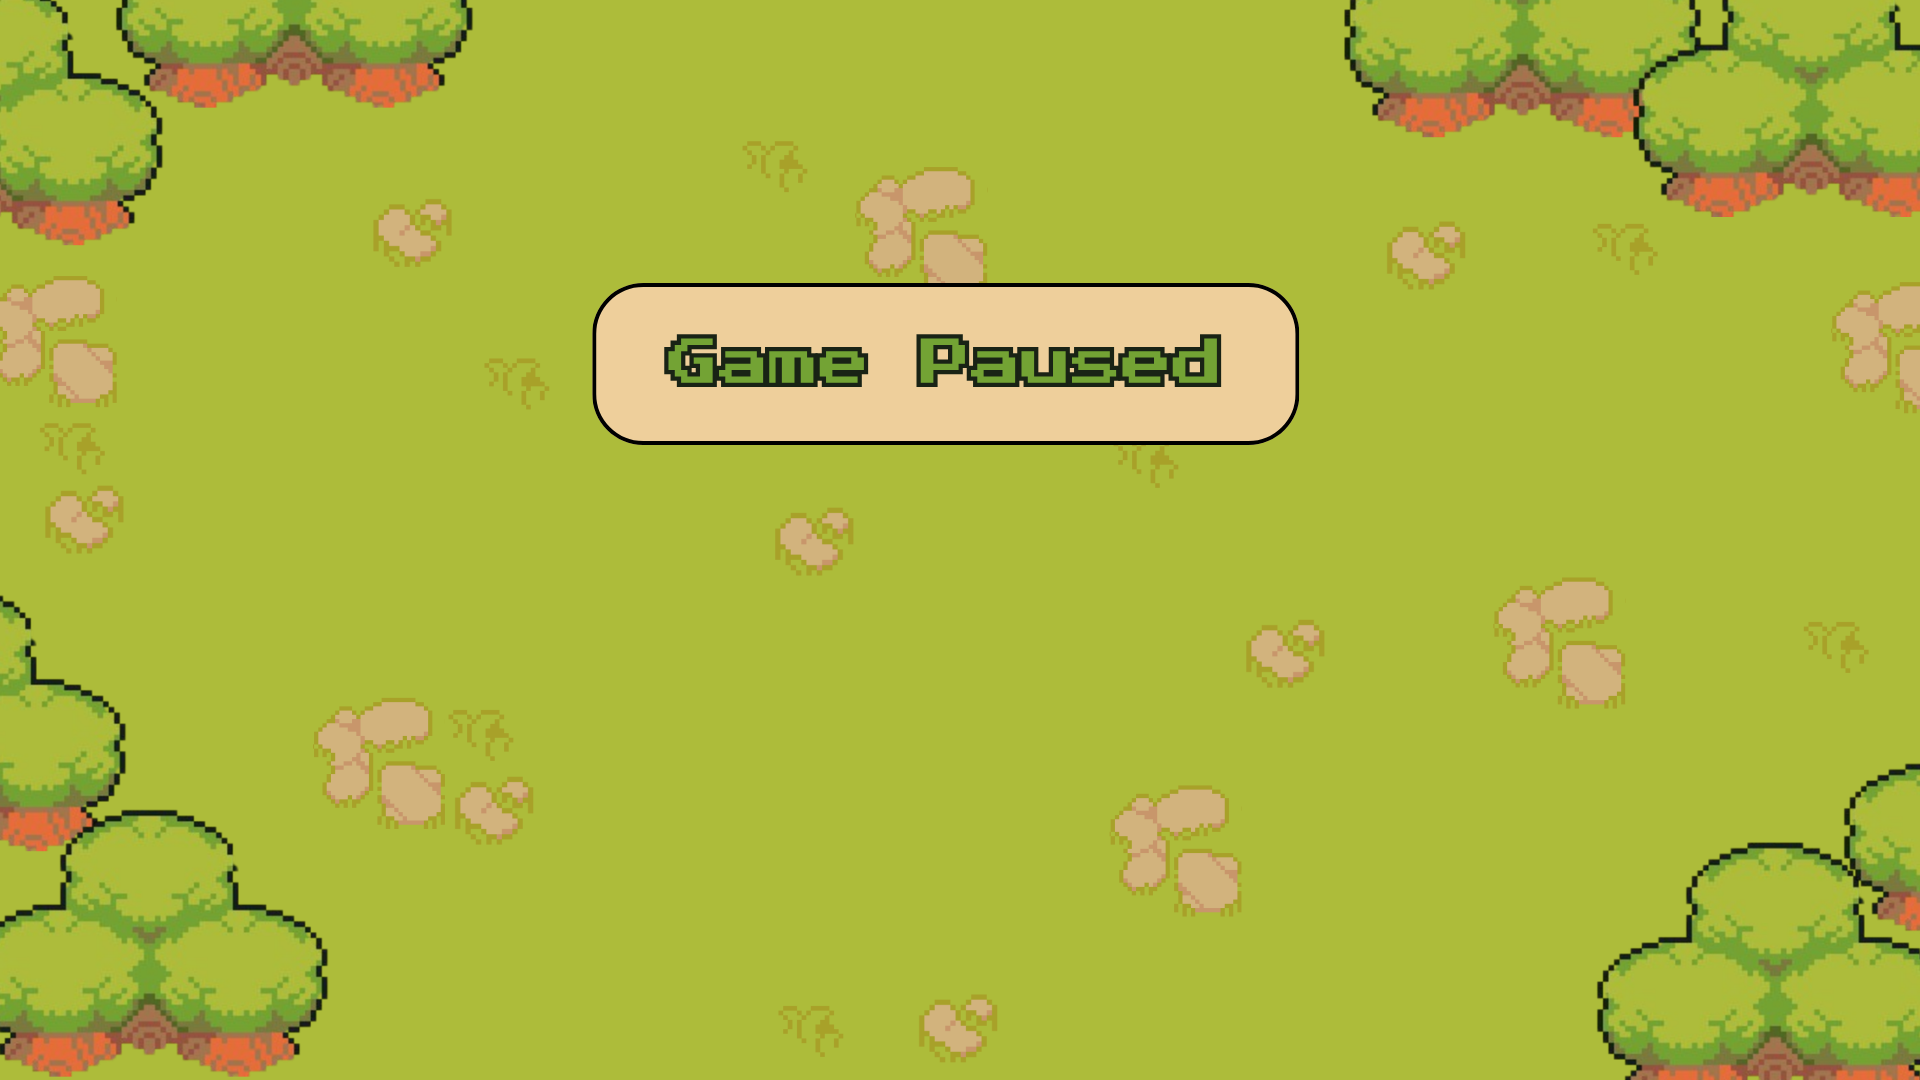
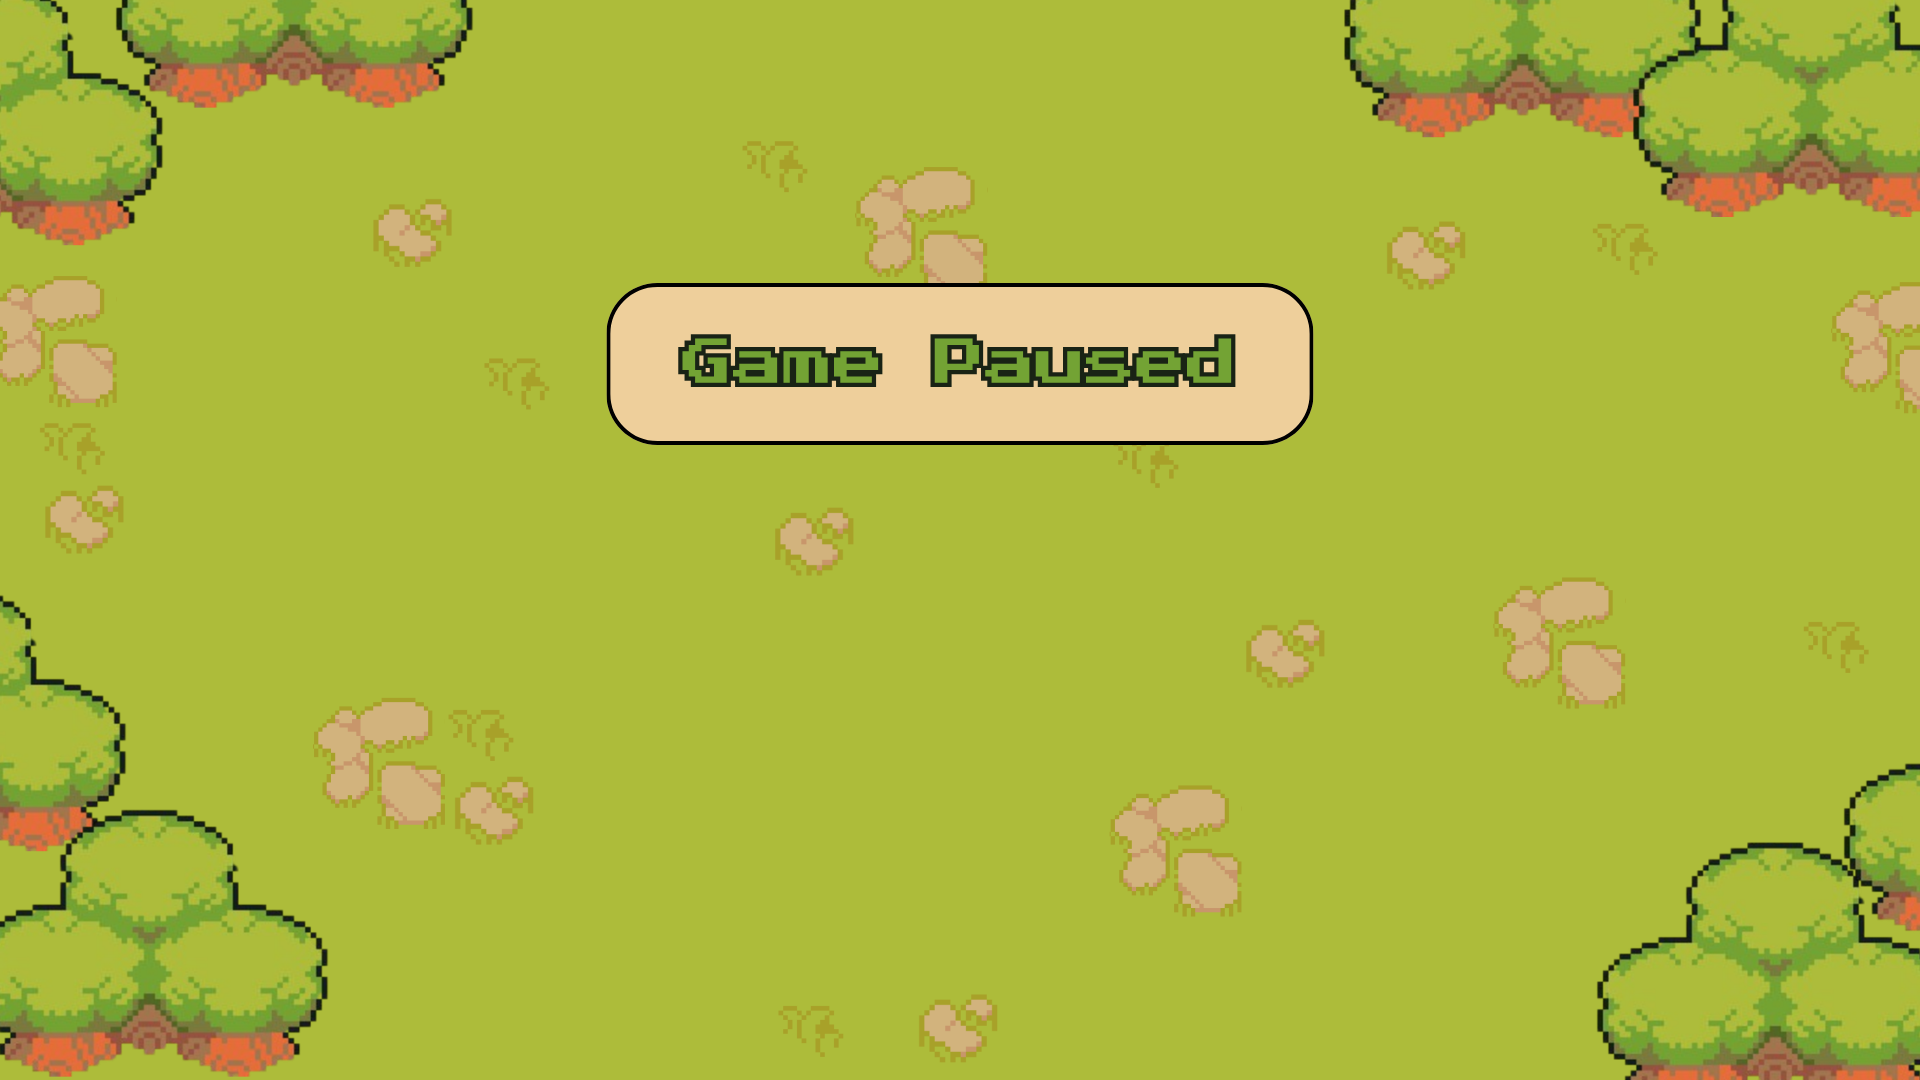
fixed centering and aesthetics of pause, game over, and main menu

Changed region(s): [[0.2812, 0.2444, 0.6875, 0.4278]]

diff --git a/Classes/GameScreen.js b/Classes/GameScreen.js
@@ -6,19 +6,19 @@ class GameScreen {
     this.buttonH = 70;
 
     this.startX = width / 2;
-    this.startY = height / 2 + 60;
-    this.playAgainX = width / 2;
-    this.playAgainY = height / 2 + 110;
-    this.mainMenuX = width / 2;
+    this.startY = height / 2 + 30;
+    this.playAgainX = width / 2 - 130;
+    this.playAgainY = height / 2 + 10;
+    this.mainMenuX = width / 2 + 130;
     this.mainMenuY = height / 2 + 10;
-    this.instrX = width / 2;
-    this.instrY = height / 2 + 210;
+    this.instrX = width / 2 + 130;
+    this.instrY = height / 2 + 110;
     this.backX = width / 2;
     this.backY = height - 100;
     this.howToX = width / 2;
-    this.howToY = height / 2 + 160;
-    this.shopX = width / 2;
-    this.shopY = height / 2 + 310;
+    this.howToY = height / 2 + 130;
+    this.shopX = width / 2 - 130;
+    this.shopY = height / 2 + 110;
     
     // Instruction screen tracking
     this.instrPage = 1;
@@ -140,7 +140,7 @@ class GameScreen {
       textSize(24);
       text("INSTRUCTIONS", this.instrX, this.instrY);
 
-            push();
+      push();
       // Shop button
       if (this.isHovering(this.shopX, this.shopY)) {
         fill(255, 200, 0);
@@ -165,6 +165,38 @@ class GameScreen {
         textSize(80);
         text("GAME OVER", width / 2, height / 2 - 150);
       }
+
+       push();
+      // Shop button
+      if (this.isHovering(this.shopX, this.shopY)) {
+        fill(255, 200, 0);
+      } else {
+        fill('#eecf9b');
+      }
+      stroke(0);
+      strokeWeight(3);
+      rect(this.shopX, this.shopY, this.buttonW, this.buttonH, 12);
+      noStroke();
+      pop();
+      fill(0);
+      textSize(24);
+      text("SHOP", this.shopX, this.shopY);
+
+      push();
+      // Instructions button
+      if (this.isHovering(this.instrX, this.instrY)) {
+        fill(255, 200, 0);
+      } else {
+        fill('#eecf9b');
+      }
+      stroke(0);
+      strokeWeight(3);
+      rect(this.instrX, this.instrY, this.buttonW, this.buttonH, 12);
+      noStroke();
+      pop();
+      fill(0);
+      textSize(24);
+      text("INSTRUCTIONS", this.instrX, this.instrY);
 
       push();
       // Main Menu button
@@ -286,7 +318,11 @@ class GameScreen {
         this.state = "menu";
       } else if (this.isHovering(this.playAgainX, this.playAgainY)) {
         this.state = "game";
-      }
+      } else if (this.isHovering(this.instrX, this.instrY)) {
+        this.state = "instructions";
+      } else if (this.isHovering(this.shopX, this.shopY)){
+      this.state = "shop"; 
+      } 
     } else if (this.state === "instructions") {
       if (this.isHovering(this.backX, this.backY)) {
         this.state = "menu";
